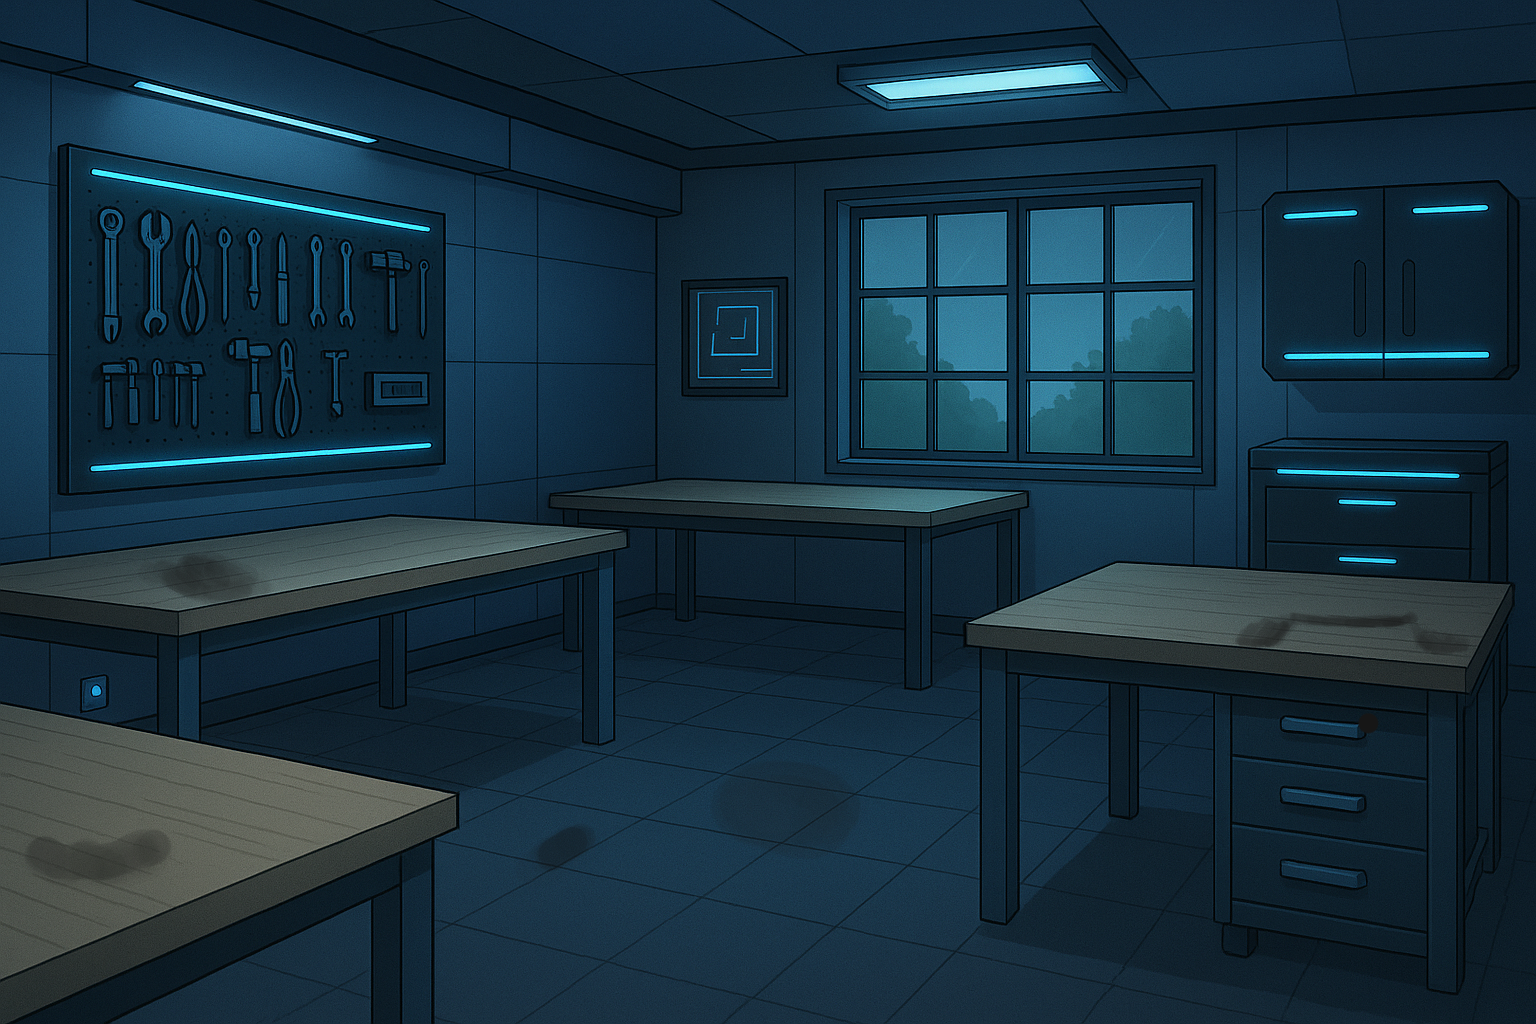
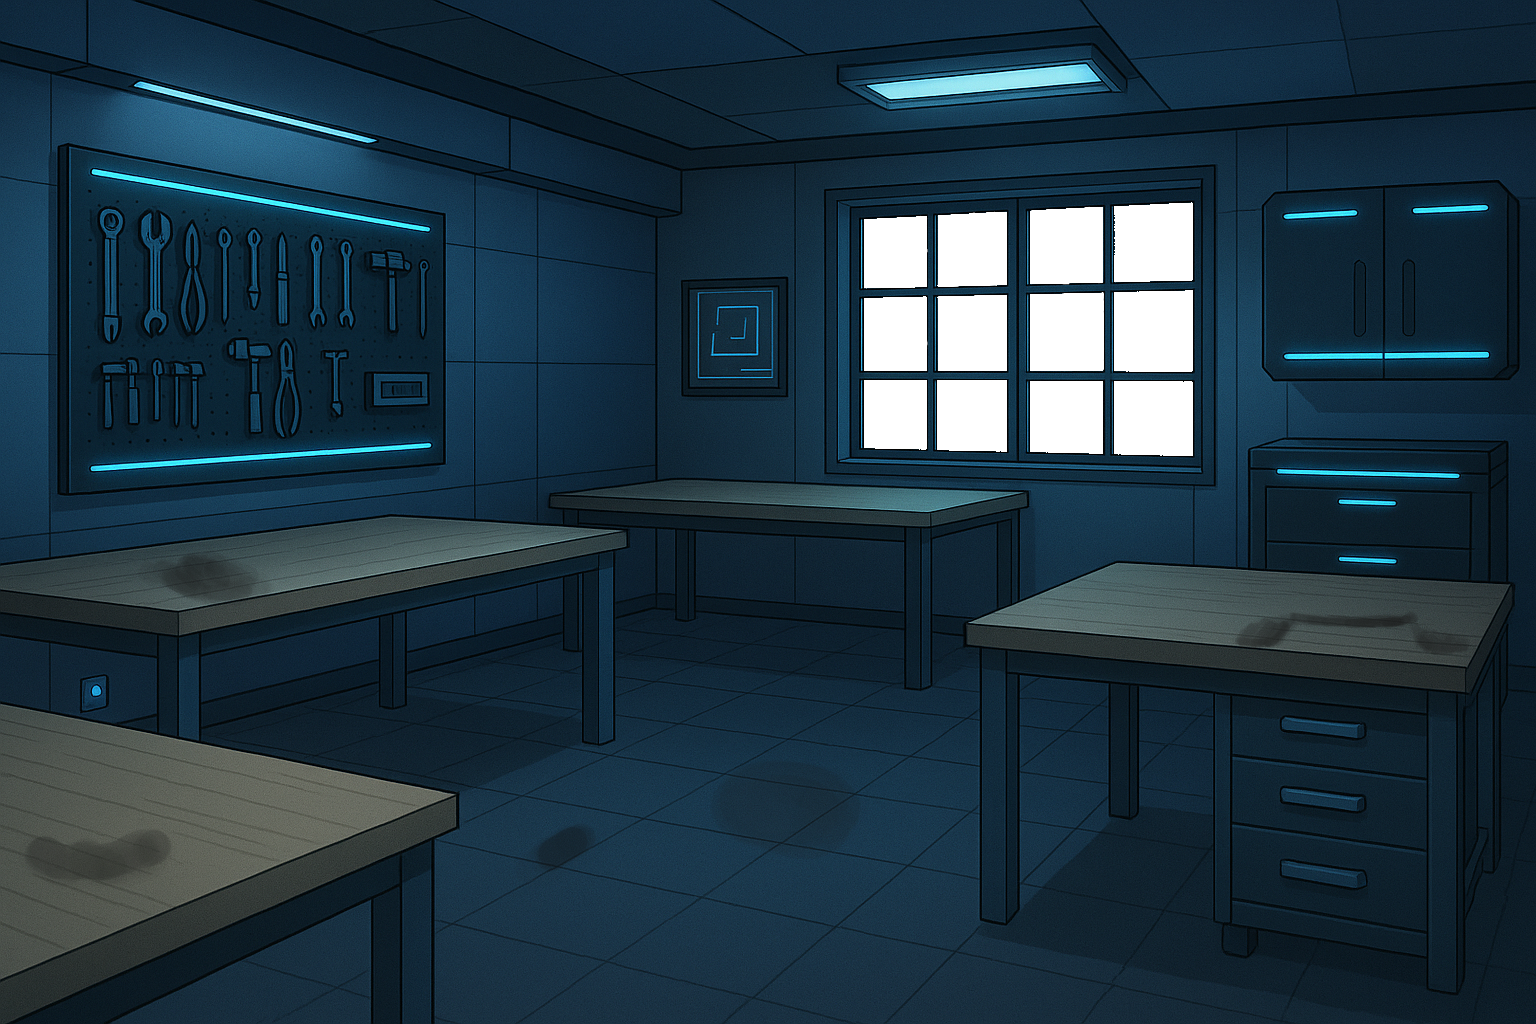
Moving Trees In Window

Changed region(s): [[0.5625, 0.1875, 0.7812, 0.4688]]

diff --git a/css/styles.css b/css/styles.css
@@ -183,7 +183,7 @@ a:hover {
   gap: 2px;
   padding: 10px 10px;
   border-radius: 12px;
-
+  
   cursor: pointer;
   text-decoration: none;
   color: var(--text);
@@ -480,13 +480,13 @@ pre.line-numbers .line-numbers-rows > span {
 
 
 .scene__bg{
-  animation: roomLight 5s infinite;
+  animation: roomLight 8s infinite;
 }
 
 @keyframes roomLight{
-  0%   { filter: brightness(1) contrast(1); }
-  12%  { filter: brightness(0.93) contrast(1.02); }
-  18%  { filter: brightness(1.05) contrast(1.03); }
+  5%   { filter: brightness(1) contrast(1); }
+  12%  { filter: brightness(0.95) contrast(1.02); }
+  18%  { filter: brightness(0.98) contrast(1.00); }
   55%  { filter: brightness(0.96) contrast(1.01); }
   100% { filter: brightness(1) contrast(1); }
 }
@@ -505,3 +505,25 @@ pre.line-numbers .line-numbers-rows > span {
   50%     { opacity: .5; }
 }
 
+/* the tree layer element */
+.tree-layer{
+  position: absolute;
+  inset: 0;              /* fill the window area */
+  width: 100%;
+  height: 100%;
+  object-fit: cover;     /* if it's an <img> */
+  transform-origin: 70% 40%; /* pivot from bottom center */
+  animation: treeSway 6.5s ease-in-out infinite;
+  will-change: transform;
+}
+
+@keyframes treeSway{
+  0%   { transform: rotate(-0.5deg) translateX(-2px); }
+  50%  { transform: rotate( 0.5deg) translateX( 2px); }
+  100% { transform: rotate(-0.5deg) translateX(-2px); }
+}
+
+/* accessibility */
+@media (prefers-reduced-motion: reduce){
+  .tree-layer{ animation: none; }
+}

diff --git a/index.html b/index.html
@@ -3,7 +3,7 @@
 <head>
   <meta charset="UTF-8" />
   <meta name="viewport" content="width=device-width, initial-scale=1" />
-  <title>Robot Room</title>
+  <title>Jared Fenster Portfolio</title>
 
   <link rel="stylesheet" href="css/styles.css" />
   <link rel="stylesheet" href="https://cdnjs.cloudflare.com/ajax/libs/prism/1.29.0/themes/prism-tomorrow.min.css" />
@@ -37,6 +37,8 @@
   <main class="scene" id="scene" aria-label="Interactive robot scene">
 
     
+    <img src="assets/tree-back.png" alt="Workshop Room" class="scene__layer scene__bg" />
+    <img src="assets/tree.png" alt="Workshop Room" class="scene__layer scene__bg tree-layer" />
     <img src="assets/room.png" alt="Workshop Room" class="scene__layer scene__bg" />
 
     <div class="vignette"></div>
